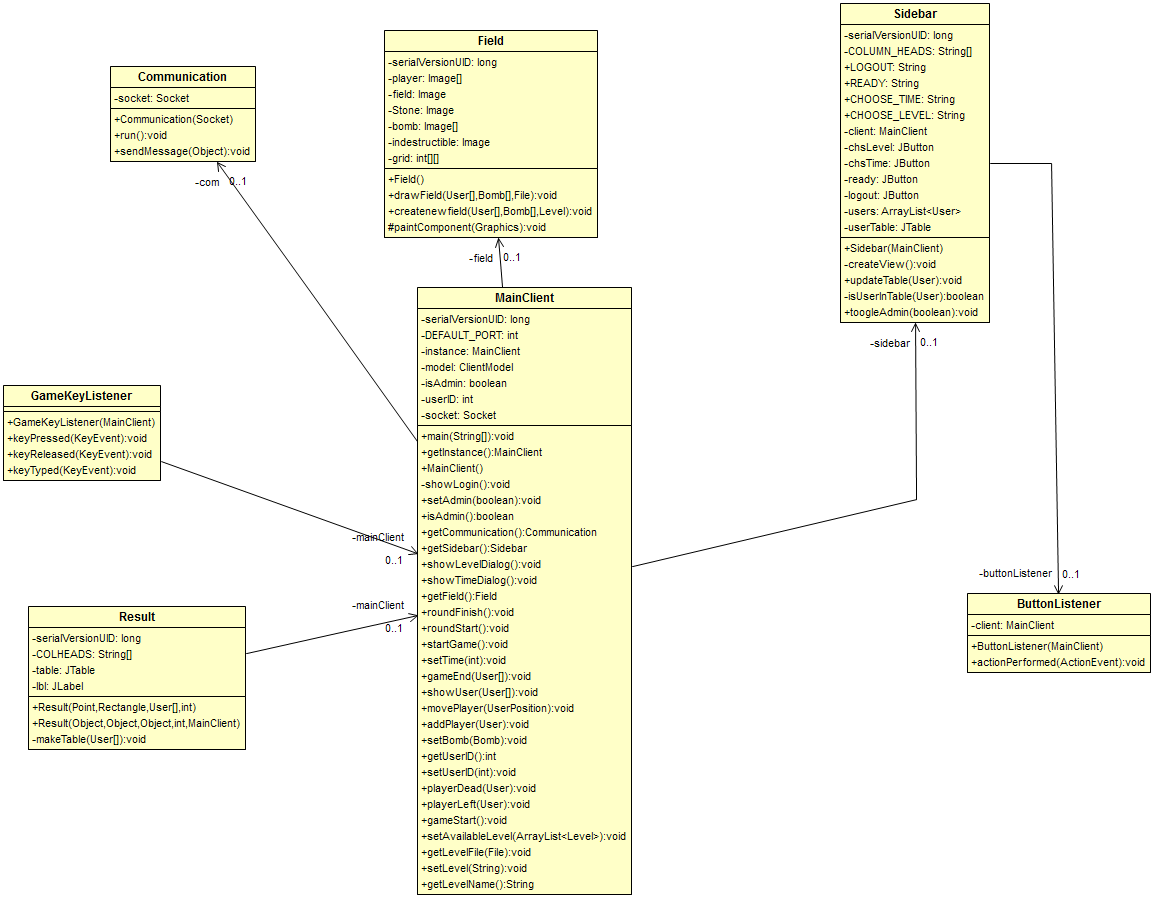
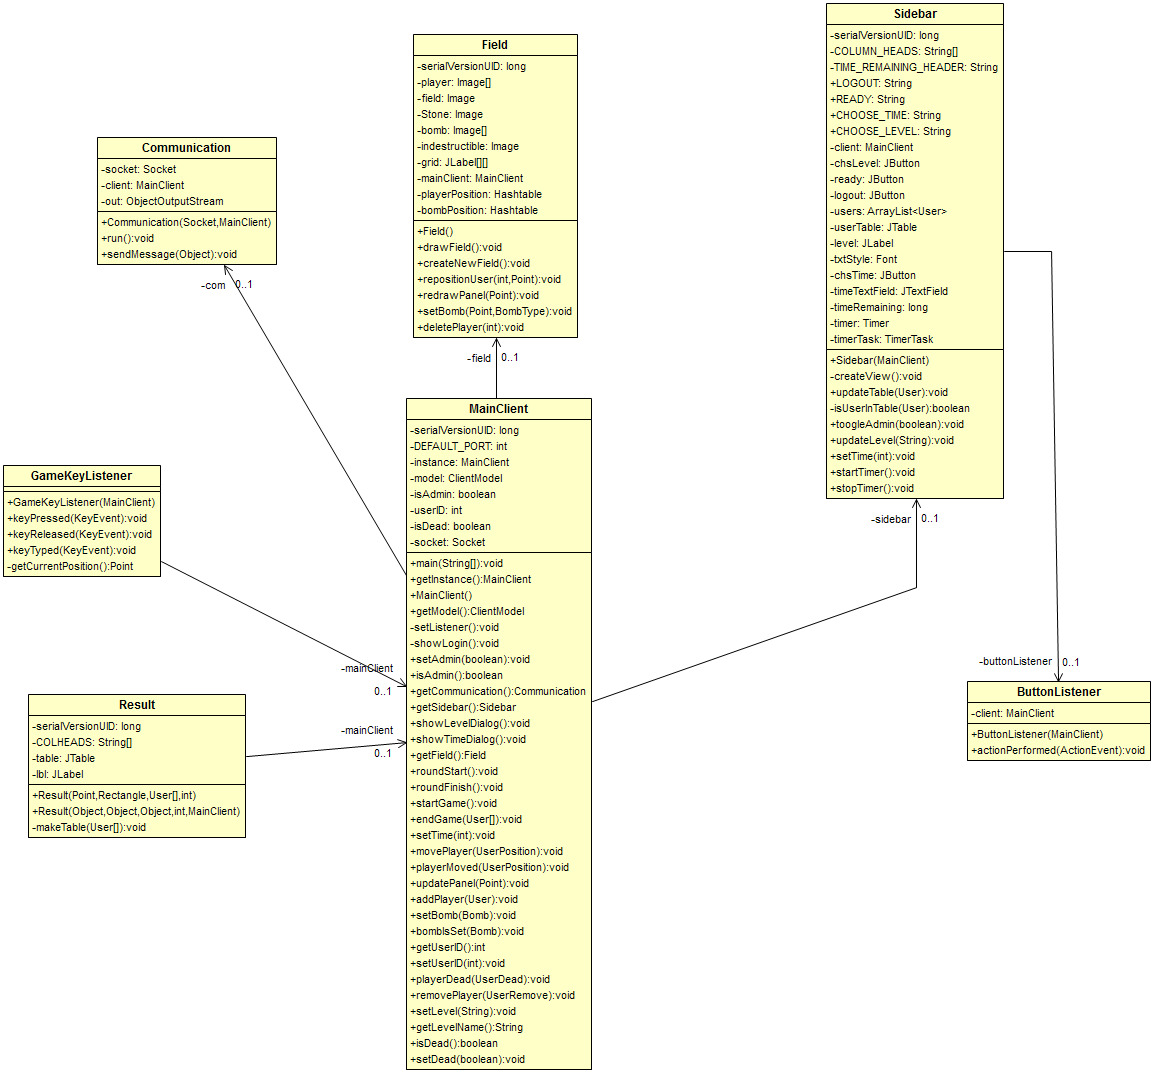
Minor improvements and a new class diagramm of the client

diff --git a/src/hrw/swenpr/bomberman/client/Communication.java b/src/hrw/swenpr/bomberman/client/Communication.java
@@ -106,13 +106,13 @@ public class Communication extends Thread {
 					break;
 					
 				case LEVEL_AVAILABLE:
-					client.setAvailableLevel(((LevelAvailable) msg).getLevel());
+					client.getModel().setLevels(((LevelAvailable) msg).getLevel());
 					break;
 							
 				case LEVEL_FILE:
 					File tmp = new File(System.getProperty("user.dir") + File.separator + client.getLevelName());
 					((LevelFile) msg).writeLevelFile(tmp);
-					client.getLevelFile(tmp);
+					client.getModel().loadLevel(tmp);
 					break;
 					
 				case GAME_START:
@@ -137,7 +137,6 @@ public class Communication extends Thread {
 					break;
 					
 				case USER_DEAD:
-					System.out.println(((UserDead) msg).getUserID());
 					client.playerDead((UserDead) msg);
 					break;
 					

diff --git a/src/hrw/swenpr/bomberman/client/MainClient.java b/src/hrw/swenpr/bomberman/client/MainClient.java
@@ -483,27 +483,7 @@ public class MainClient extends JFrame {
 		model.deleteUserByID(usr.getUserID());
 		field.deletePlayer(usr.getUserID());
 	}
-
-	/**
-	 * Adds a list of levels to the game
-	 * 
-	 * @param level
-	 *            {@link ArrayList} of new levels
-	 */
-	public void setAvailableLevel(ArrayList<Level> level) {
-		model.setLevels(level);
-	}
-
-	/**
-	 * Transfers the level into the model
-	 * 
-	 * @param level
-	 *            Level on which the round is played on
-	 */
-	public void getLevelFile(File level) {
-		model.loadLevel(level);
-	}
-
+	
 	/**
 	 * Sets the name of the level which is chosen by the admin
 	 * 
